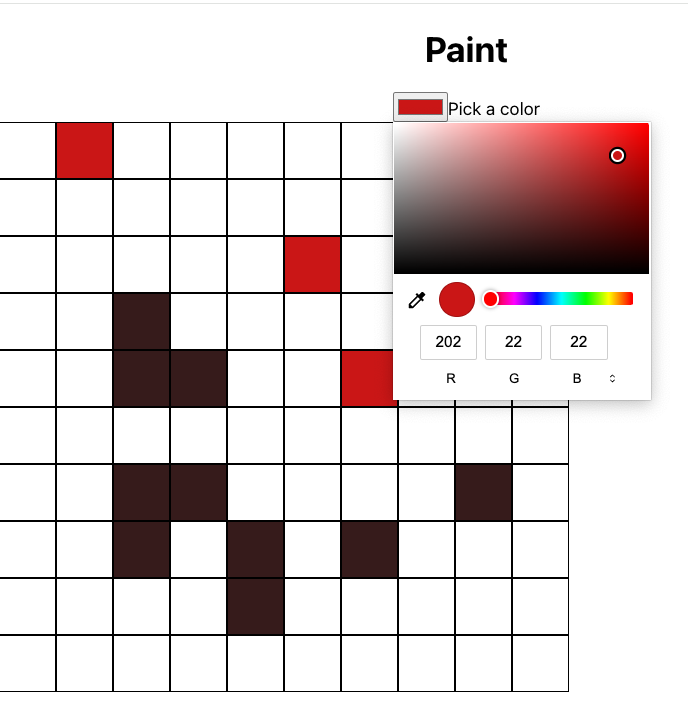
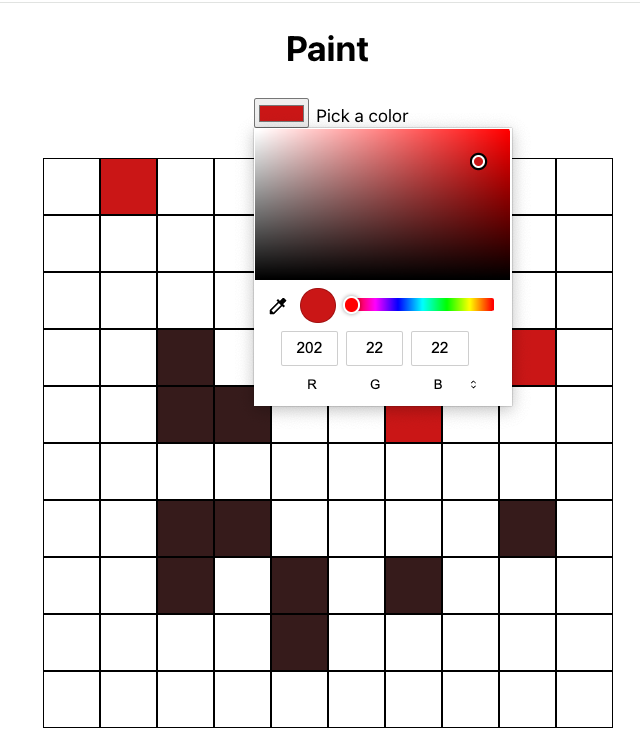
center board and add updated image

diff --git a/src/App.css b/src/App.css
@@ -1,40 +1,9 @@
 .App {
-  text-align: center;
-}
-
-.App-logo {
-  height: 40vmin;
-  pointer-events: none;
-}
-
-@media (prefers-reduced-motion: no-preference) {
-  .App-logo {
-    animation: App-logo-spin infinite 20s linear;
-  }
-}
-
-.App-header {
-  background-color: #282c34;
-  min-height: 100vh;
   display: flex;
+  justify-content: center;
+  text-align: center;
   flex-direction: column;
   align-items: center;
-  justify-content: center;
-  font-size: calc(10px + 2vmin);
-  color: white;
-}
-
-.App-link {
-  color: #61dafb;
-}
-
-@keyframes App-logo-spin {
-  from {
-    transform: rotate(0deg);
-  }
-  to {
-    transform: rotate(360deg);
-  }
 }
 
 .square {
@@ -50,4 +19,11 @@
 
 .square-container {
   display: flex;
+}
+
+.color-selector {
+  padding-bottom: 20px;
+}
+input {
+  margin: 0.5em;
 }

diff --git a/src/App.jsx b/src/App.jsx
@@ -13,7 +13,7 @@ function App() {
   return (
     <div className="App">
       <h1>Paint</h1>
-      <div>
+      <div className="color-selector">
         <input
           type="color"
           id="head"
